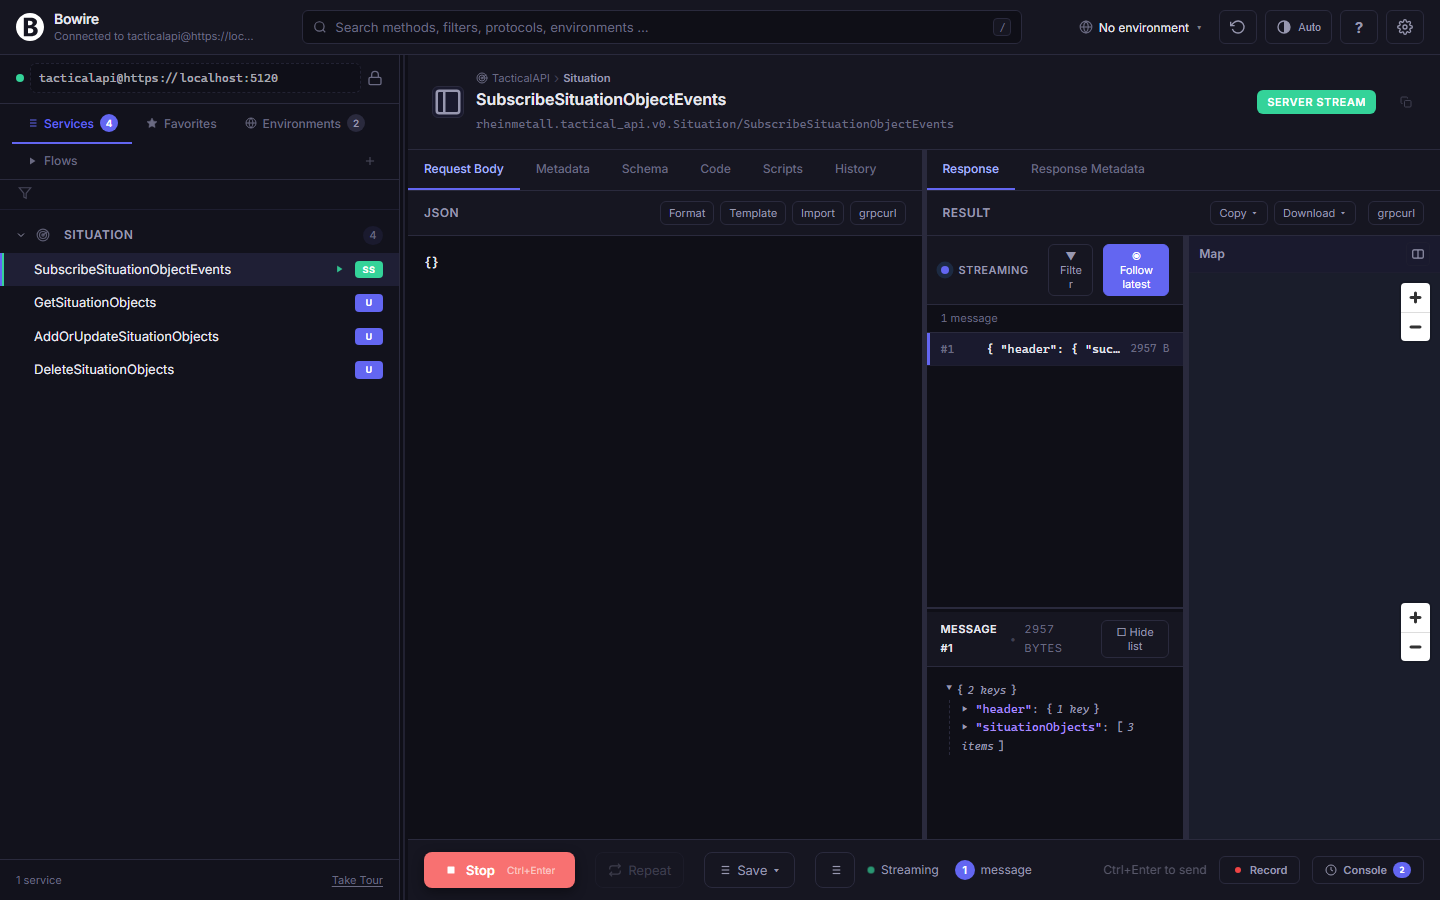
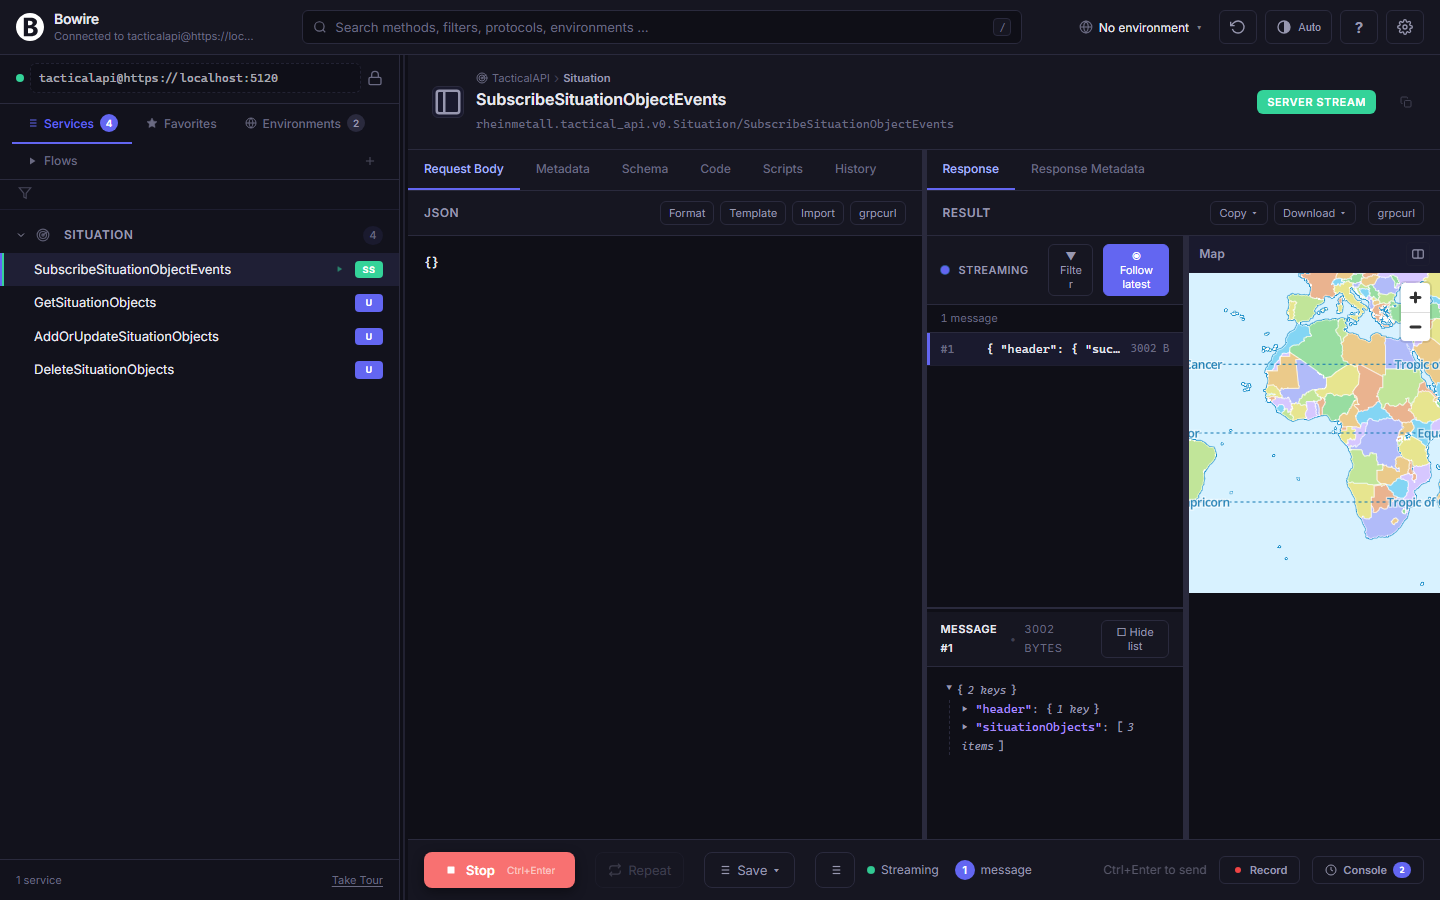
map: fold N pin-pairings into one mount + ship a configurable basemap (default: MapLibre demotiles)
Two halves of the same screenshot story. Phase 3.2 already declared `selectionMode: 'multi'` on the map viewer, but `mountWidgetsForMethod` was still stamping one `.maplibregl-map` per pairing — for a TacticalAPI response with three `Symbol`s, that meant three blank canvases instead of one canvas with three pins. New `aggregate` branch in extensions.js folds sibling matches into a single mount and passes `ctx.interpretations` as an `Array<kindMap>`; map.js's new `interpretationPairs` resolver walks both shapes (object for single-pairing, array for aggregated) and `extractCoords` returns every (lat, lon) the frame carries. The `addPin` bounds.extend call moved inside the per-coord loop — without it, var hoisting left the last coord as the only one widening the auto-fit viewport (the others sat off-screen even when the pins did land).

The map was also rendering on an empty black surface because the offline-default style had no tile source. New `bowireMapBasemapSpec` resolves `__BOWIRE_CONFIG__.mapBasemap` into three modes — a custom raster/style URL (internal mapserver), the OSM raster alias with proper attribution, or the MapLibre demotiles vector style — with demotiles as the default so the workbench is useful out of the box without an air-gapped config. `'none'` keeps the old blank-style behaviour for fully offline installs. Legacy `mapTileUrl` is honoured as a raster URL for backward compat.
[…]

Changed region(s): [[0.8125, 0.28, 1.0, 0.7467]]

diff --git a/src/Kuestenlogik.Bowire.Extension.MapLibre/wwwroot/js/widgets/map.js b/src/Kuestenlogik.Bowire.Extension.MapLibre/wwwroot/js/widgets/map.js
@@ -106,17 +106,63 @@
 
     /**
      * Resolve `Bowire:MapTileUrl` from the host config. The host
-     * surfaces it as a top-level config key when set; absence means
-     * "offline blank style" (the ADR's default).
+     * surfaces it as a top-level config key when set; absence falls
+     * through to the demotiles default (see bowireMapBasemapSpec).
      */
     function bowireMapTileUrl() {
-        // Allow the host to pre-bake the URL into __BOWIRE_CONFIG__ via
-        // a future field; for v1.3, an env var or appsettings entry
-        // could surface it, but the bowire-options binding for it is
-        // out of Phase 3 scope. The widget reads window.__BOWIRE_CONFIG__
-        // defensively in case a future host injection lands.
         var cfg = window.__BOWIRE_CONFIG__;
         return (cfg && cfg.mapTileUrl) || null;
+    }
+
+    /**
+     * Resolve the basemap to render under the pins. Three modes:
+     *
+     *   1. Custom URL — `config.mapBasemap` is a raster tile URL with
+     *      {z}/{x}/{y} placeholders, or a style.json URL. Picks the
+     *      shape automatically by inspecting the URL's tail.
+     *   2. Named alias — `config.mapBasemap` is "osm" / "demotiles" /
+     *      "none". "osm" hits openstreetmap.org with attribution;
+     *      "demotiles" hits MapLibre's free demo dataset (the
+     *      recommended free-tier fallback); "none" reverts to the
+     *      pre-v0.3 blank-style behaviour for true offline installs.
+     *   3. Default — demotiles. Works in any browser that can reach
+     *      MapLibre's CDN without an API key. Custom URL is still the
+     *      preferred answer for internal-mapserver setups, configured
+     *      via host appsettings (Bowire:Map:Basemap key) or per-user
+     *      via the Settings dialog (planned).
+     *
+     * Returns either { kind: 'styleUrl', url } / { kind: 'raster', url }
+     * / { kind: 'blank' } so the caller can build the MapLibre style
+     * object without re-parsing the URL.
+     */
+    function bowireMapBasemapSpec() {
+        var cfg = window.__BOWIRE_CONFIG__ || {};
+        // Legacy mapTileUrl still honoured as an explicit raster source.
+        if (cfg.mapTileUrl) {
+            return { kind: 'raster', url: cfg.mapTileUrl, attribution: '' };
+        }
+
+        var basemap = cfg.mapBasemap;
+        if (basemap === 'none') return { kind: 'blank' };
+        if (basemap === 'osm') {
+            return {
+                kind: 'raster',
+                url: 'https://tile.openstreetmap.org/{z}/{x}/{y}.png',
+                attribution: '© <a href="https://www.openstreetmap.org/copyright" target="_blank" rel="noopener">OpenStreetMap</a>'
+            };
+        }
+        if (basemap === 'demotiles' || !basemap) {
+            return {
+                kind: 'styleUrl',
+                url: 'https://demotiles.maplibre.org/style.json'
+            };
+        }
+        // Heuristic: a string ending in .json is treated as a full
+        // style URL; anything else as a raster tile URL.
+        if (/\.json(\?.*)?$/i.test(basemap)) {
+            return { kind: 'styleUrl', url: basemap };
+        }
+        return { kind: 'raster', url: basemap, attribution: '' };
     }
 
     /**
@@ -224,25 +270,28 @@
         }
         if (disposed) return function () {};
 
-        var tileUrl = bowireMapTileUrl();
+        var basemap = bowireMapBasemapSpec();
         var style;
-        if (tileUrl) {
-            // User has explicitly opted into an external tile source by
-            // configuring Bowire:MapTileUrl. That's the only path where
-            // the widget reaches an external host; offline-default has
-            // no `sources`, no `glyphs`, no `sprite` (see
-            // bowireMapBlankStyle for the lockdown rationale). When a
-            // tile URL IS configured, we still omit `glyphs` / `sprite`
-            // because the workbench's pin-rendering doesn't use them —
-            // adding either would silently widen the egress surface.
+        if (basemap.kind === 'styleUrl') {
+            // MapLibre accepts a style URL directly — that's the path
+            // for demotiles and other style.json-shaped basemaps. The
+            // map constructor fetches it and wires glyphs/sprite if
+            // the style declares them.
+            style = basemap.url;
+        } else if (basemap.kind === 'raster') {
+            // Self-built raster style for a single tile URL. Custom
+            // mapserver setups and the OSM alias both land here.
+            // glyphs/sprite stay omitted because the workbench's
+            // pin-rendering doesn't use them — adding either would
+            // silently widen the egress surface.
             style = {
                 version: 8,
                 sources: {
                     'bowire-tiles': {
                         type: 'raster',
-                        tiles: [tileUrl],
+                        tiles: [basemap.url],
                         tileSize: 256,
-                        attribution: ''
+                        attribution: basemap.attribution || ''
                     }
                 },
                 layers: [{
@@ -252,6 +301,7 @@
                 }]
             };
         } else {
+            // `mapBasemap: 'none'` — true offline fallback.
             style = bowireMapBlankStyle(ctx.theme && ctx.theme.mode);
         }
 
@@ -260,7 +310,11 @@
             style: style,
             center: [0, 0],
             zoom: 1,
-            attributionControl: false
+            // Show attribution when a basemap is in play — OSM's tile
+            // usage policy requires it, and demotiles/MapLibre style.json
+            // wires it for free. Pure-blank fallback has no attribution
+            // to render.
+            attributionControl: basemap.kind !== 'blank' ? { compact: true } : false
         });
         map.addControl(new maplibregl.NavigationControl({ showCompass: false }), 'top-right');
 
@@ -330,38 +384,77 @@
             catch { /* fitBounds rejects only on degenerate input — leave camera alone */ }
         }
 
-        // Pull (lat, lon) out of one frame using the resolved kind →
-        // path mapping from ctx.interpretations.
-        function extractCoord(frame) {
+        // Resolve ctx.interpretations into the list of (latPath, lonPath)
+        // pairs we need to extract from every incoming frame. Two
+        // shapes ship from the framework today:
+        //   - Object (legacy / single-pairing): one kindMap with
+        //     coordinate.latitude + coordinate.longitude
+        //   - Array  (multi-pairing, Phase 3.2+): one entry per sibling
+        //     pairing the framework folded into this mount, e.g. when
+        //     the response has `situationObjects[N]` and the WGS84
+        //     detector wrote N annotations. extensions.js does the fold
+        //     when viewer.selectionMode === 'multi'.
+        var interpretationPairs = (function () {
             var kinds = ctx.interpretations || {};
-            var latPath = kinds['coordinate.latitude'];
-            var lonPath = kinds['coordinate.longitude'];
-            if (!latPath || !lonPath) return null;
+            var rawList = Array.isArray(kinds) ? kinds : [kinds];
+            var pairs = [];
+            for (var i = 0; i < rawList.length; i++) {
+                var k = rawList[i] || {};
+                var lat = k['coordinate.latitude'];
+                var lon = k['coordinate.longitude'];
+                if (lat && lon) pairs.push({ lat: lat, lon: lon });
+            }
+            return pairs;
+        })();
 
-            // Frames coming through the SSE stream wrap the payload in
-            // a `data` field. Try both shapes so the widget works for
-            // raw frames AND for wrapped envelopes.
+        // Walk a frame through every interpretation pair, returning
+        // every valid (lat, lon) we find. Returns [] when the frame
+        // carries no coordinates the widget can plot. Each pair is
+        // tried against the unwrapped frame roots (the SSE envelope
+        // wraps the payload in `data`/`frame`, so we try both shapes).
+        function extractCoords(frame) {
+            if (interpretationPairs.length === 0) return [];
+
             var roots = [];
             if (frame && frame.data !== undefined) roots.push(frame.data);
             if (frame && frame.frame !== undefined) roots.push(frame.frame);
             roots.push(frame);
 
-            for (var i = 0; i < roots.length; i++) {
-                var root = roots[i];
+            var parsedRoots = [];
+            for (var r = 0; r < roots.length; r++) {
+                var root = roots[r];
                 if (root && typeof root === 'string') {
                     try { root = JSON.parse(root); } catch { continue; }
                 }
-                var lat = bowireResolveJsonPath(root, latPath);
-                var lon = bowireResolveJsonPath(root, lonPath);
-                lat = typeof lat === 'number' ? lat : parseFloat(lat);
-                lon = typeof lon === 'number' ? lon : parseFloat(lon);
-                if (isFinite(lat) && isFinite(lon)
-                    && lat >= -90 && lat <= 90
-                    && lon >= -180 && lon <= 180) {
-                    return { lat: lat, lon: lon };
+                if (root !== undefined && root !== null) parsedRoots.push(root);
+            }
+
+            var out = [];
+            for (var p = 0; p < interpretationPairs.length; p++) {
+                var pair = interpretationPairs[p];
+                for (var i = 0; i < parsedRoots.length; i++) {
+                    var lat = bowireResolveJsonPath(parsedRoots[i], pair.lat);
+                    var lon = bowireResolveJsonPath(parsedRoots[i], pair.lon);
+                    lat = typeof lat === 'number' ? lat : parseFloat(lat);
+                    lon = typeof lon === 'number' ? lon : parseFloat(lon);
+                    if (isFinite(lat) && isFinite(lon)
+                        && lat >= -90 && lat <= 90
+                        && lon >= -180 && lon <= 180) {
+                        out.push({ lat: lat, lon: lon });
+                        break; // one root match per pair is enough
+                    }
                 }
             }
-            return null;
+            return out;
+        }
+
+        // Back-compat shim — single-coord extraction still has internal
+        // callers (selection-driven camera moves, hover/pin testing).
+        // Returns the FIRST extracted coord or null, preserving the
+        // pre-aggregation contract for those callsites.
+        function extractCoord(frame) {
+            var coords = extractCoords(frame);
+            return coords.length > 0 ? coords[0] : null;
         }
 
         // Phase 3.1 — selected-frame tracking. We hold the snapshot
@@ -382,8 +475,15 @@
         });
 
         function addPin(frame) {
-            var coord = extractCoord(frame);
-            if (!coord) return;
+            // Aggregated mode (Phase 3.2+ multi-pairing fold) returns
+            // every (lat, lon) the frame carries, single-pairing mode
+            // returns one. Either way, this loop emits a pin per
+            // resolved coord. The shared `frameId` / `selected` /
+            // `discriminator` properties tie each pin back to its
+            // source frame for selection re-styling, exactly like the
+            // single-coord path used to.
+            var coords = extractCoords(frame);
+            if (coords.length === 0) return;
             var discriminator = (frame && frame.discriminator) || '*';
             var color = bowireMapDiscriminatorColor(discriminator, paletteStore);
             var frameId = (frame && frame.id) || null;
@@ -399,17 +499,32 @@
                 ? 'yes'
                 : (anySelected ? 'no-but-others-are' : 'no');
 
-            pointsSource.features.push({
-                type: 'Feature',
-                id: ++pinSeq,
-                geometry: { type: 'Point', coordinates: [coord.lon, coord.lat] },
-                properties: {
-                    color: color,
-                    discriminator: discriminator,
-                    frameId: frameId,
-                    selected: selectedTag
+            for (var c = 0; c < coords.length; c++) {
+                var coord = coords[c];
+                pointsSource.features.push({
+                    type: 'Feature',
+                    id: ++pinSeq,
+                    geometry: { type: 'Point', coordinates: [coord.lon, coord.lat] },
+                    properties: {
+                        color: color,
+                        discriminator: discriminator,
+                        frameId: frameId,
+                        selected: selectedTag
+                    }
+                });
+                // Extend the bounds for EVERY coord in this frame —
+                // without this, a multi-pairing frame (e.g.
+                // TacticalAPI's situationObjects[N]) only widened the
+                // viewport with the loop's last `coord` thanks to
+                // `var` hoisting, so the auto-fit centred on one pin
+                // and the others sat off-screen.
+                if (!bounds) {
+                    bounds = new maplibregl.LngLatBounds(
+                        [coord.lon, coord.lat], [coord.lon, coord.lat]);
+                } else {
+                    bounds.extend([coord.lon, coord.lat]);
                 }
-            });
+            }
 
             // Trim pin count to avoid unbounded memory in long streams.
             // The cap mirrors what render-main.js does for streamMessages.
@@ -421,12 +536,6 @@
             var src = map.getSource('bowire-points');
             if (src) src.setData(pointsSource);
 
-            if (!bounds) {
-                bounds = new maplibregl.LngLatBounds(
-                    [coord.lon, coord.lat], [coord.lon, coord.lat]);
-            } else {
-                bounds.extend([coord.lon, coord.lat]);
-            }
             // Auto-fit on the first few pins, then leave navigation to
             // the user. Avoids the jitter of a re-fit on every frame.
             // Once the user has moved the camera (drag/zoom) OR a

diff --git a/src/Kuestenlogik.Bowire/wwwroot/js/extensions.js b/src/Kuestenlogik.Bowire/wwwroot/js/extensions.js
@@ -787,9 +787,68 @@
                     continue;
                 }
 
+                if (!ext.viewer) continue;
+
+                // Aggregate sibling pairings when the viewer opts into
+                // multi-select. Without this, a response with N nested
+                // pairings (e.g. TacticalAPI's situationObjects[N].…
+                // .geoPoint) stamps N independent slots, so a map widget
+                // ends up with N empty canvases instead of one canvas
+                // with N pins. The viewer.selectionMode === 'multi'
+                // declaration is the framework's existing signal that
+                // the widget can render >1 thing — we extend it here to
+                // mean "and >1 pairing path too". Single-match callers
+                // keep the legacy single-slot behaviour so widgets that
+                // need separate canvases per pairing aren't affected.
+                var aggregate = matches.length > 1
+                    && ext.viewer.selectionMode === 'multi';
+
+                if (aggregate) {
+                    var slot = document.createElement('div');
+                    slot.className = 'bowire-ext-mount bowire-ext-mount-' + ext.kind.replace(/\./g, '-');
+                    slot.dataset.extensionId = ext.id;
+                    // dataset.parentPath stays single-valued for backwards
+                    // compat (single-match callers still set it); the
+                    // aggregated counterpart lists every parent so test
+                    // queries / DOM inspectors can see the full set.
+                    slot.dataset.parentPaths = matches.map(function (mm) { return mm.parentPath; }).join(',');
+                    paneContainer.appendChild(slot);
+
+                    // ctx.interpretations is an Array<kindMap> in
+                    // aggregated mode — one kindMap per pairing path.
+                    // Single-match callers continue to receive the
+                    // existing object shape; viewers detect Array.isArray
+                    // and walk each entry. Documented in the extension
+                    // SPI for third parties.
+                    var aggregatedKinds = matches.map(function (mm) { return mm.kinds; });
+                    var ctxBundle = bowireMakeViewerCtx({
+                        container: slot,
+                        kinds: aggregatedKinds,
+                        discriminator: '*',
+                        selectionMode: ext.viewer.selectionMode
+                    });
+
+                    var unmount;
+                    try {
+                        unmount = ext.viewer.mount(slot, ctxBundle.ctx);
+                    } catch (e) {
+                        console.error('[bowire-ext] viewer.mount threw for ' + ext.id, e);
+                        unmount = null;
+                    }
+
+                    cleanups.push((function (slot, ctxBundle, unmount) {
+                        return function () {
+                            try { if (typeof unmount === 'function') unmount(); }
+                            catch (e) { console.error('[bowire-ext]', e); }
+                            ctxBundle.cleanup();
+                            if (slot.parentNode) slot.parentNode.removeChild(slot);
+                        };
+                    })(slot, ctxBundle, unmount));
+                    continue;
+                }
+
                 for (var m = 0; m < matches.length; m++) {
                     var match = matches[m];
-                    if (!ext.viewer) continue;
                     var slot = document.createElement('div');
                     slot.className = 'bowire-ext-mount bowire-ext-mount-' + ext.kind.replace(/\./g, '-');
                     slot.dataset.extensionId = ext.id;

diff --git a/ROADMAP.md b/ROADMAP.md
@@ -119,12 +119,14 @@ The auto-detector half of the framework: five stateless `IBowireFieldDetector` i
 - [x] **`docs/protocols/index.md`** counts bumped (5 → 6 sibling plugins) and TacticalAPI row added to the sibling-plugin table + the protocol-fanout mermaid diagram (dashed edge to flag the preview status). `docs/api/index.md` gained a "gRPC-Web support" note under the gRPC entry and a callout under the sibling-plugin list pointing at the TacticalAPI sibling repo (its API surface isn't in the main repo's DocFX scope).
 - [x] **`site/_includes/roadmap.html`** picked up a new "Recently shipped" card summarising v1.2.0 (gRPC-Web + TacticalAPI preview).
 
-### Map widget — aggregate N pin-bearing pairings into one canvas (2026-05-12)
+### Map widget — pin-plot still misses streaming frames after the aggregation fold (2026-05-12)
 
-Phase 3.2's `selectionMode: 'multi'` declares that the map viewer accepts more than one selected frame, and the framework's `findPairingMatches` finds every (lat, lon) pairing in a response — but the current mount logic stamps one independent `.maplibregl-map` per pairing. The Rheinmetall TacticalAPI sample exposed it cleanly: `GetSituationObjects` returns three `Symbol`s, each with its own `GeoPoint`, so Bowire mounts three blank maps instead of one map with three pins.
+Phase 3.2's `selectionMode: 'multi'` declares that the map viewer accepts more than one selected frame, and the framework's `findPairingMatches` finds every (lat, lon) pairing in a response. The aggregation fold landed in the same commit as this entry — one mount per registered extension instead of N — but the visible result on the TacticalAPI screenshot still shows the basemap centred on (0, 0) without pins. The streaming pane reports one inbound frame and the map mount succeeds; the `addPin → extractCoords → fitBounds` pipeline never runs.
 
-- [ ] **Aggregate sibling pairings into one viewer mount** — when several pairings share the same widget-pane slot AND the viewer advertises `selectionMode: 'multi'`, fold them into a single `mount(ctx)` call whose `ctx.frames[]` carries every pairing's `(lat, lon)`. The map's `fitBounds` call already handles N points; the gap is upstream in `mountWidgetsForMethod`.
-- [ ] **Marker styling per situation-object** — the seeded TacticalAPI sample tags each `Symbol` with a MIL-2525C identifier (`SFGPUCI*`, `SHGPEWA*`, `SNGPUCRRO*`). Once one-map-many-pins works, a follow-up wires the symbol code into the marker icon — friend (blue square), hostile (red diamond), neutral (green clover). Out of scope until the aggregation lands.
+- [x] **Aggregate sibling pairings into one viewer mount** — shipped via the new `aggregate` branch in `mountWidgetsForMethod`; verified DOM-side (`.bowire-ext-mount` count drops from N to 1, `dataset.parentPaths` carries the joined list).
+- [x] **Bounds-in-loop fix** — `addPin`'s `bounds.extend([coord.lon, coord.lat])` moved inside the per-coord loop so a multi-pairing frame extends the viewport for every pin instead of only the last (var hoisting trap).
+- [ ] **Surface the mount/remount race that swallows the first frame** — every streaming frame triggers a full `render()` in the workbench, which calls `disposeWidgetMounts()` and re-mounts the map widget. The new mount's `consume()` IIFE awaits the framework's frames-pipe iterator, but the dispatched stream-message that triggered the re-render has already fired by the time the new listener attaches. The pipe's `buffered[]` queue catches push-before-await within ONE ctx, but a freshly recreated ctx has an empty buffer — the first frame is lost. Suspected fixes: hold the widget mount stable across re-renders (only dispose on method-change), or replay the most-recent dispatched frame into the new mount.
+- [ ] **Marker styling per situation-object** — the seeded TacticalAPI sample tags each `Symbol` with a MIL-2525C identifier (`SFGPUCI*`, `SHGPEWA*`, `SNGPUCRRO*`). Once pins land reliably, wire the symbol code into the marker icon — friend (blue square), hostile (red diamond), neutral (green clover).
 
 ### Unary response auto-widget mount (2026-05-12)
 
